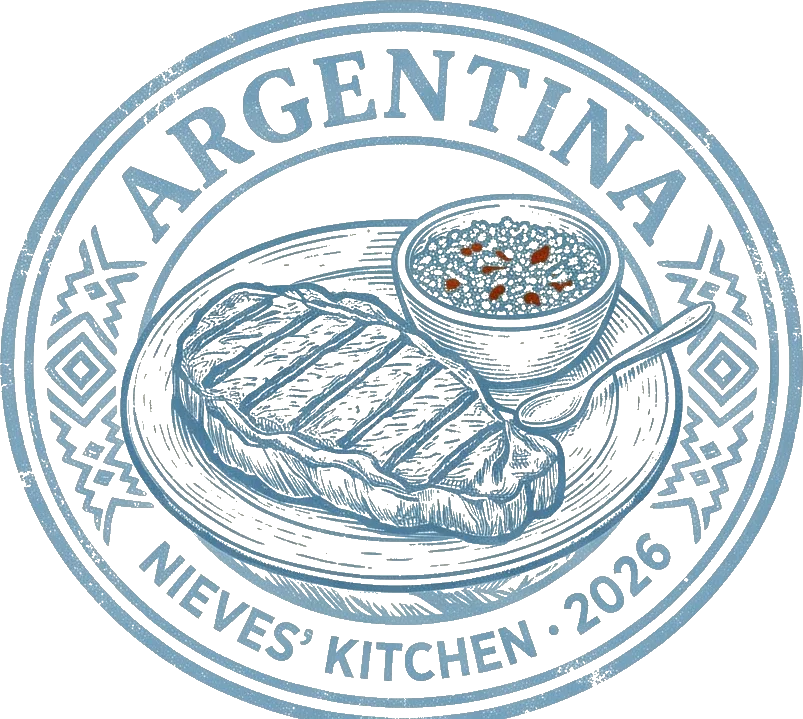
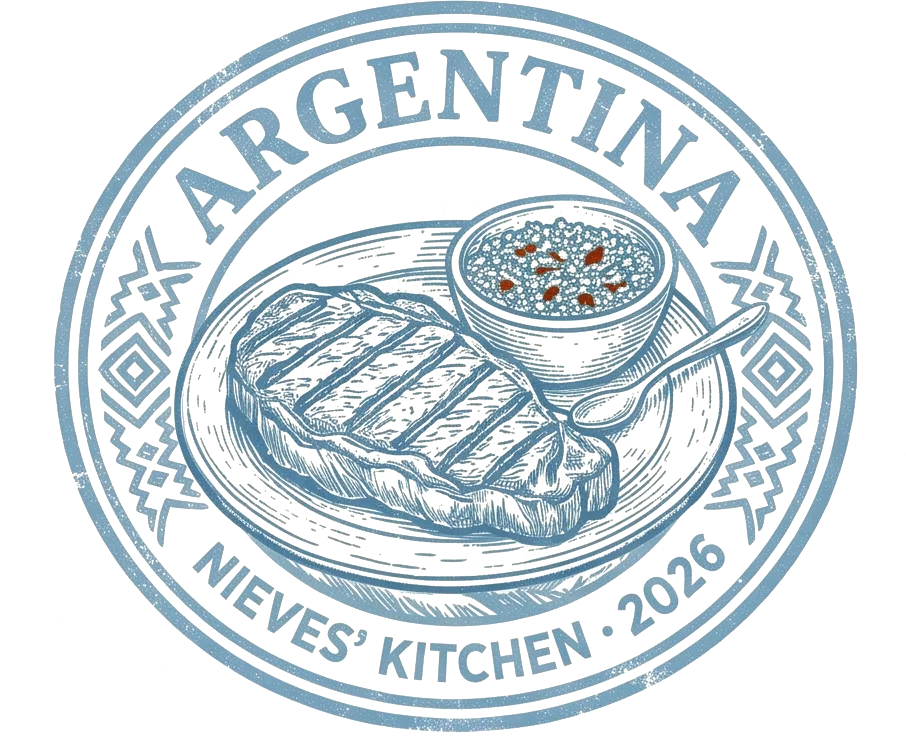
Re-crop Argentina & Venezuela stamps
Argentina was clipped at the bottom (missing the lower border arc) and
Venezuela carried a stray sliver of a neighbouring stamp at the top.
Re-cropped both cleanly from the source sheet and updated their aspects.

diff --git a/lib/passport-stamps.ts b/lib/passport-stamps.ts
@@ -81,10 +81,10 @@ export const CUSTOM_STAMPS: Record<string, CustomStampMeta> = {
   kenya: { file: 'kenya', aspect: 1309 / 1022 },
   'saudi arabia': { file: 'saudi-arabia', aspect: 798 / 965 },
   cyprus: { file: 'cyprus', aspect: 1161 / 1021, scale: 1.1 },
-  argentina: { file: 'argentina', aspect: 803 / 719 },
+  argentina: { file: 'argentina', aspect: 906 / 738 },
   colombia: { file: 'colombia', aspect: 902 / 674 },
   chile: { file: 'chile', aspect: 868 / 673 },
-  venezuela: { file: 'venezuela', aspect: 883 / 724 },
+  venezuela: { file: 'venezuela', aspect: 900 / 716 },
   ecuador: { file: 'ecuador', aspect: 926 / 686 },
   brazil: { file: 'brazil', aspect: 887 / 702 },
   senegal: { file: 'senegal', aspect: 367 / 415 },